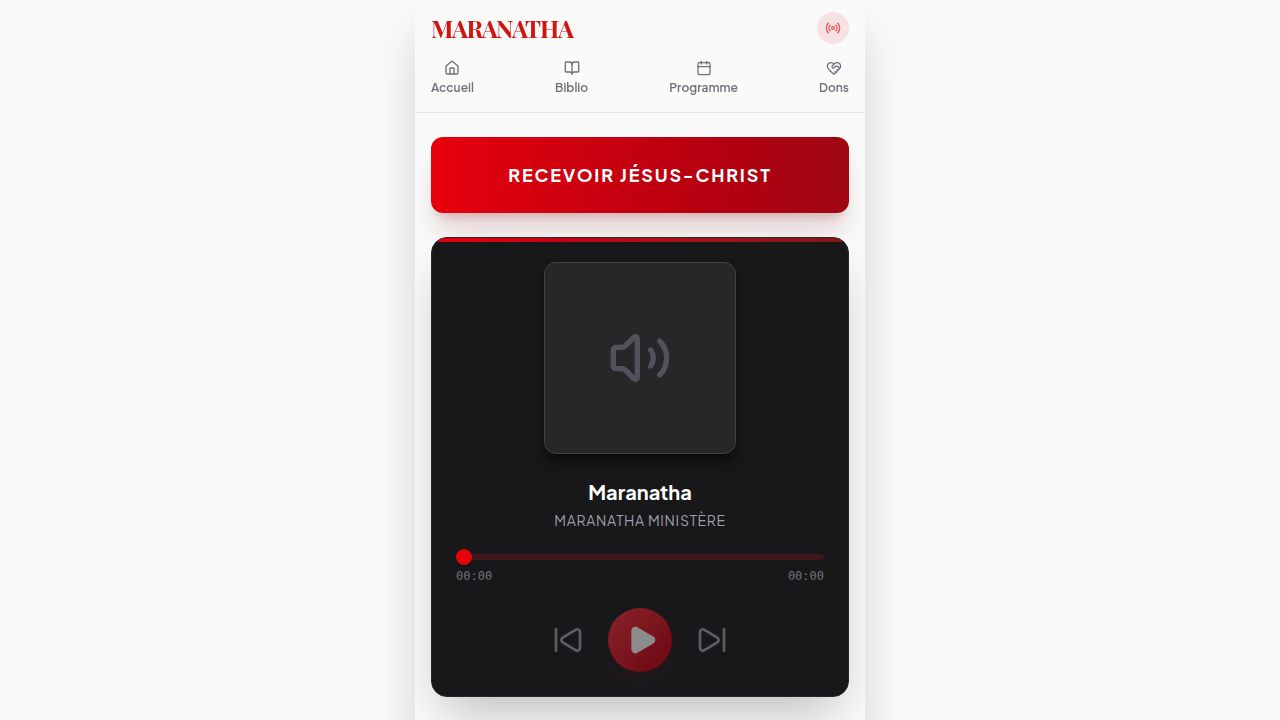
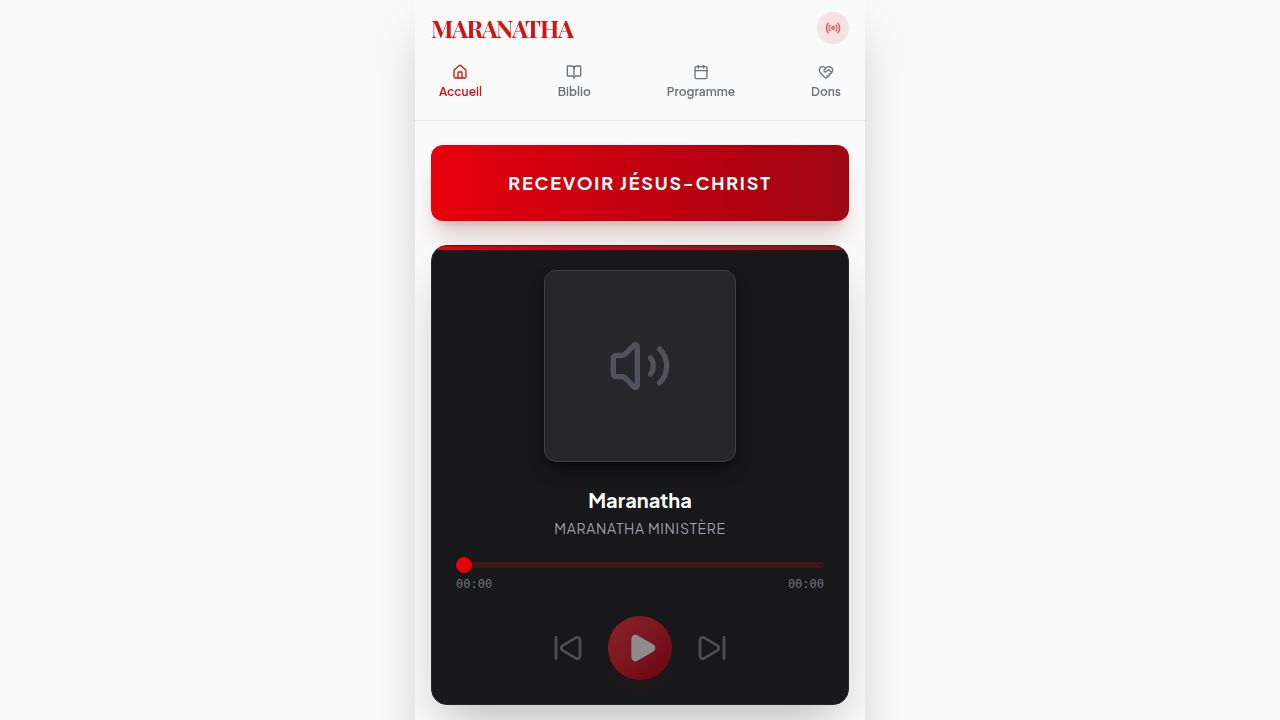
Add visual loading indicator for audio playback
Update the audio player component to include a visual loading state with a spinner and animated progress bar.

Replit-Commit-Author: Agent
Replit-Commit-Session-Id: e15e24dc-ab83-4118-8ce4-a30f1f08e138
Replit-Commit-Checkpoint-Type: full_checkpoint
Replit-Commit-Event-Id: 3a179ced-d5d2-42fe-9919-a2bcd97949c6
Replit-Commit-Screenshot-Url: https://storage.googleapis.com/screenshot-production-us-central1/f23f1463-ea37-45b2-b0a1-836ba7d3896a/e15e24dc-ab83-4118-8ce4-a30f1f08e138/QEhhbqe
Replit-Helium-Checkpoint-Created: true

diff --git a/artifacts/maranatha/src/components/audio-player.tsx b/artifacts/maranatha/src/components/audio-player.tsx
@@ -1,5 +1,5 @@
 import { useRef, useState, useEffect } from "react";
-import { Play, Pause, SkipBack, Volume2, Radio } from "lucide-react";
+import { Play, Pause, SkipBack, Volume2, Radio, Loader2 } from "lucide-react";
 import { Slider } from "@/components/ui/slider";
 
 interface AudioPlayerProps {
@@ -11,6 +11,7 @@ interface AudioPlayerProps {
 export function AudioPlayer({ url, title, coverArt }: AudioPlayerProps) {
   const audioRef = useRef<HTMLAudioElement>(null);
   const [isPlaying, setIsPlaying] = useState(false);
+  const [isLoading, setIsLoading] = useState(false);
   const [progress, setProgress] = useState(0);
   const [duration, setDuration] = useState(0);
   const [autoplayBlocked, setAutoplayBlocked] = useState(false);
@@ -22,14 +23,16 @@ export function AudioPlayer({ url, title, coverArt }: AudioPlayerProps) {
 
     if (!url) {
       setIsPlaying(false);
+      setIsLoading(false);
       setProgress(0);
       setAutoplayBlocked(false);
       return;
     }
 
-    audioRef.current.load();
+    setIsLoading(true);
     setProgress(0);
     setAutoplayBlocked(false);
+    audioRef.current.load();
 
     const attemptPlay = () => {
       if (!audioRef.current) return;
@@ -37,10 +40,12 @@ export function AudioPlayer({ url, title, coverArt }: AudioPlayerProps) {
         .play()
         .then(() => {
           setIsPlaying(true);
+          setIsLoading(false);
           setAutoplayBlocked(false);
         })
         .catch(() => {
           setIsPlaying(false);
+          setIsLoading(false);
           setAutoplayBlocked(true);
         });
     };
@@ -58,28 +63,30 @@ export function AudioPlayer({ url, title, coverArt }: AudioPlayerProps) {
       audioRef.current.pause();
       setIsPlaying(false);
     } else {
-      audioRef.current.play().catch(console.error);
-      setIsPlaying(true);
-      setAutoplayBlocked(false);
+      setIsLoading(true);
+      audioRef.current
+        .play()
+        .then(() => {
+          setIsPlaying(true);
+          setIsLoading(false);
+          setAutoplayBlocked(false);
+        })
+        .catch(() => {
+          setIsLoading(false);
+        });
     }
   };
 
   const handleTimeUpdate = () => {
-    if (audioRef.current) {
-      setProgress(audioRef.current.currentTime);
-    }
+    if (audioRef.current) setProgress(audioRef.current.currentTime);
   };
 
   const handleLoadedMetadata = () => {
-    if (audioRef.current) {
-      setDuration(audioRef.current.duration);
-    }
+    if (audioRef.current) setDuration(audioRef.current.duration);
   };
 
   const skip = (amount: number) => {
-    if (audioRef.current) {
-      audioRef.current.currentTime += amount;
-    }
+    if (audioRef.current) audioRef.current.currentTime += amount;
   };
 
   const handleSliderChange = (value: number[]) => {
@@ -91,14 +98,28 @@ export function AudioPlayer({ url, title, coverArt }: AudioPlayerProps) {
 
   const formatTime = (time: number) => {
     if (!time || isNaN(time)) return "00:00";
-    const minutes = Math.floor(time / 60);
-    const seconds = Math.floor(time % 60);
-    return `${minutes.toString().padStart(2, "0")}:${seconds.toString().padStart(2, "0")}`;
+    const m = Math.floor(time / 60);
+    const s = Math.floor(time % 60);
+    return `${m.toString().padStart(2, "0")}:${s.toString().padStart(2, "0")}`;
   };
 
   return (
     <div className="bg-zinc-900 text-white rounded-2xl p-6 shadow-2xl relative overflow-hidden border border-zinc-800">
-      <div className="absolute top-0 left-0 w-full h-1 bg-gradient-to-r from-red-600 to-red-900"></div>
+
+      {/* Barre de chargement en haut */}
+      <div className="absolute top-0 left-0 w-full h-1 bg-zinc-800 overflow-hidden">
+        {isLoading ? (
+          <div
+            className="h-full bg-gradient-to-r from-red-600 via-red-400 to-red-600 absolute"
+            style={{
+              width: "45%",
+              animation: "loadingBar 1.2s ease-in-out infinite",
+            }}
+          />
+        ) : (
+          <div className="h-full bg-gradient-to-r from-red-600 to-red-900 w-full" />
+        )}
+      </div>
 
       {url && (
         <audio
@@ -106,20 +127,26 @@ export function AudioPlayer({ url, title, coverArt }: AudioPlayerProps) {
           src={url}
           onTimeUpdate={handleTimeUpdate}
           onLoadedMetadata={handleLoadedMetadata}
-          onEnded={() => setIsPlaying(false)}
-          onPlay={() => setIsPlaying(true)}
+          onEnded={() => { setIsPlaying(false); setIsLoading(false); }}
+          onPlay={() => { setIsPlaying(true); setIsLoading(false); }}
           onPause={() => setIsPlaying(false)}
+          onWaiting={() => setIsLoading(true)}
+          onCanPlay={() => setIsLoading(false)}
+          onPlaying={() => setIsLoading(false)}
         />
       )}
 
       <div className="flex flex-col items-center">
+        {/* Pochette */}
         <div className="w-48 h-48 rounded-xl overflow-hidden mb-6 shadow-lg shadow-black/50 border border-zinc-700 bg-zinc-800 flex items-center justify-center relative">
           {coverArt ? (
             <img src={coverArt} alt="Pochette" className="w-full h-full object-cover" />
           ) : (
             <Volume2 className="w-16 h-16 text-zinc-600" />
           )}
-          {isPlaying && (
+
+          {/* Barres d'égaliseur quand ça joue */}
+          {isPlaying && !isLoading && (
             <div className="absolute bottom-2 left-1/2 -translate-x-1/2 flex items-end gap-0.5">
               {[1, 2, 3, 4].map((i) => (
                 <div
@@ -133,14 +160,28 @@ export function AudioPlayer({ url, title, coverArt }: AudioPlayerProps) {
               ))}
             </div>
           )}
+
+          {/* Spinner sur la pochette quand chargement */}
+          {isLoading && (
+            <div className="absolute inset-0 bg-black/60 flex items-center justify-center">
+              <Loader2 className="w-10 h-10 text-red-500 animate-spin" />
+            </div>
+          )}
         </div>
 
         <h3 className="font-sans font-bold text-xl text-center mb-1 line-clamp-1">
           {title || "Aucune diffusion en cours"}
         </h3>
-        <p className="text-zinc-400 text-sm mb-2 uppercase tracking-wider">Maranatha Ministère</p>
 
-        {autoplayBlocked && url && (
+        <p className="text-zinc-400 text-sm mb-2 uppercase tracking-wider">
+          {isLoading ? (
+            <span className="text-red-400 animate-pulse">Chargement en cours...</span>
+          ) : (
+            "Maranatha Ministère"
+          )}
+        </p>
+
+        {autoplayBlocked && url && !isLoading && (
           <button
             onClick={togglePlay}
             className="mb-4 flex items-center gap-2 bg-red-600/20 border border-red-600/40 text-red-400 text-xs px-4 py-2 rounded-full animate-pulse hover:bg-red-600/30 transition-colors"
@@ -151,8 +192,9 @@ export function AudioPlayer({ url, title, coverArt }: AudioPlayerProps) {
           </button>
         )}
 
-        {!autoplayBlocked && <div className="mb-4" />}
+        {(!autoplayBlocked || isLoading) && <div className="mb-4" />}
 
+        {/* Barre de progression */}
         <div className="w-full space-y-2 mb-6">
           <Slider
             value={[progress]}
@@ -160,7 +202,7 @@ export function AudioPlayer({ url, title, coverArt }: AudioPlayerProps) {
             step={1}
             onValueChange={handleSliderChange}
             className="[&_[role=slider]]:bg-red-600 [&_[role=slider]]:border-red-600 [&_[role=slider]]:w-4 [&_[role=slider]]:h-4 [&>.relative>.absolute]:bg-red-600"
-            disabled={!url}
+            disabled={!url || isLoading}
           />
           <div className="flex justify-between text-xs text-zinc-500 font-mono">
             <span>{formatTime(progress)}</span>
@@ -168,23 +210,44 @@ export function AudioPlayer({ url, title, coverArt }: AudioPlayerProps) {
           </div>
         </div>
 
+        {/* Contrôles */}
         <div className="flex items-center justify-center gap-6">
           <button
             onClick={() => skip(-10)}
-            disabled={!url}
-            className="text-zinc-400 hover:text-white transition-colors disabled:opacity-50"
+            disabled={!url || isLoading}
+            className="text-zinc-400 hover:text-white transition-colors disabled:opacity-40"
             data-testid="audio-skip-back"
           >
             <SkipBack className="w-8 h-8" />
           </button>
 
+          {/* Bouton play/pause avec spinner */}
           <button
             onClick={togglePlay}
             disabled={!url}
-            className="w-16 h-16 rounded-full bg-gradient-to-br from-red-500 to-red-700 flex items-center justify-center text-white shadow-lg shadow-red-900/20 hover:scale-105 transition-transform disabled:opacity-50 disabled:hover:scale-100"
+            className="w-16 h-16 rounded-full bg-gradient-to-br from-red-500 to-red-700 flex items-center justify-center text-white shadow-lg shadow-red-900/20 hover:scale-105 transition-transform disabled:opacity-50 disabled:hover:scale-100 relative"
             data-testid="audio-play-pause"
           >
-            {isPlaying ? (
+            {/* Anneau de chargement animé */}
+            {isLoading && (
+              <svg
+                className="absolute inset-0 w-full h-full animate-spin"
+                viewBox="0 0 64 64"
+                fill="none"
+              >
+                <circle
+                  cx="32" cy="32" r="28"
+                  stroke="white"
+                  strokeWidth="4"
+                  strokeLinecap="round"
+                  strokeDasharray="44 132"
+                  opacity="0.8"
+                />
+              </svg>
+            )}
+            {isLoading ? (
+              <span className="w-3 h-3 bg-white rounded-full opacity-80" />
+            ) : isPlaying ? (
               <Pause className="w-8 h-8 fill-current" />
             ) : (
               <Play className="w-8 h-8 fill-current ml-1" />
@@ -193,8 +256,8 @@ export function AudioPlayer({ url, title, coverArt }: AudioPlayerProps) {
 
           <button
             onClick={() => skip(10)}
-            disabled={!url}
-            className="text-zinc-400 hover:text-white transition-colors disabled:opacity-50"
+            disabled={!url || isLoading}
+            className="text-zinc-400 hover:text-white transition-colors disabled:opacity-40"
             data-testid="audio-skip-forward"
           >
             <SkipBack className="w-8 h-8 rotate-180" />
@@ -205,7 +268,11 @@ export function AudioPlayer({ url, title, coverArt }: AudioPlayerProps) {
       <style>{`
         @keyframes equalizer {
           from { transform: scaleY(0.3); }
-          to { transform: scaleY(1); }
+          to   { transform: scaleY(1); }
+        }
+        @keyframes loadingBar {
+          0%   { left: -45%; }
+          100% { left: 100%; }
         }
       `}</style>
     </div>
